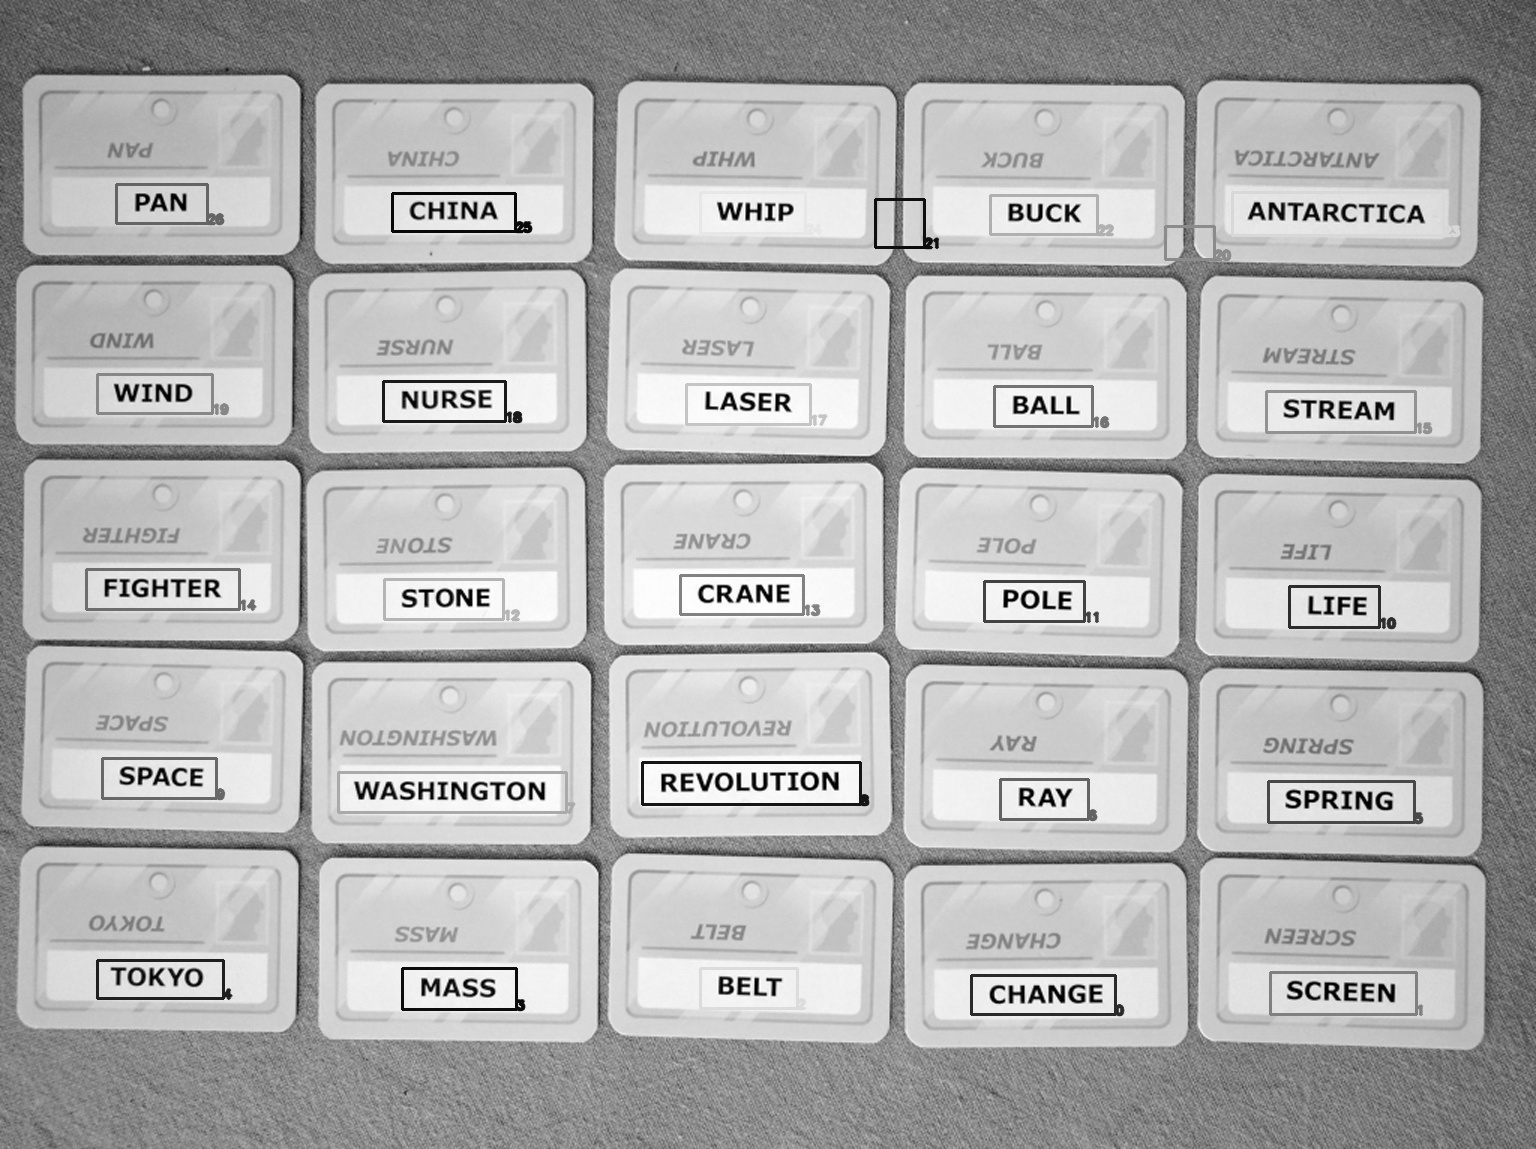
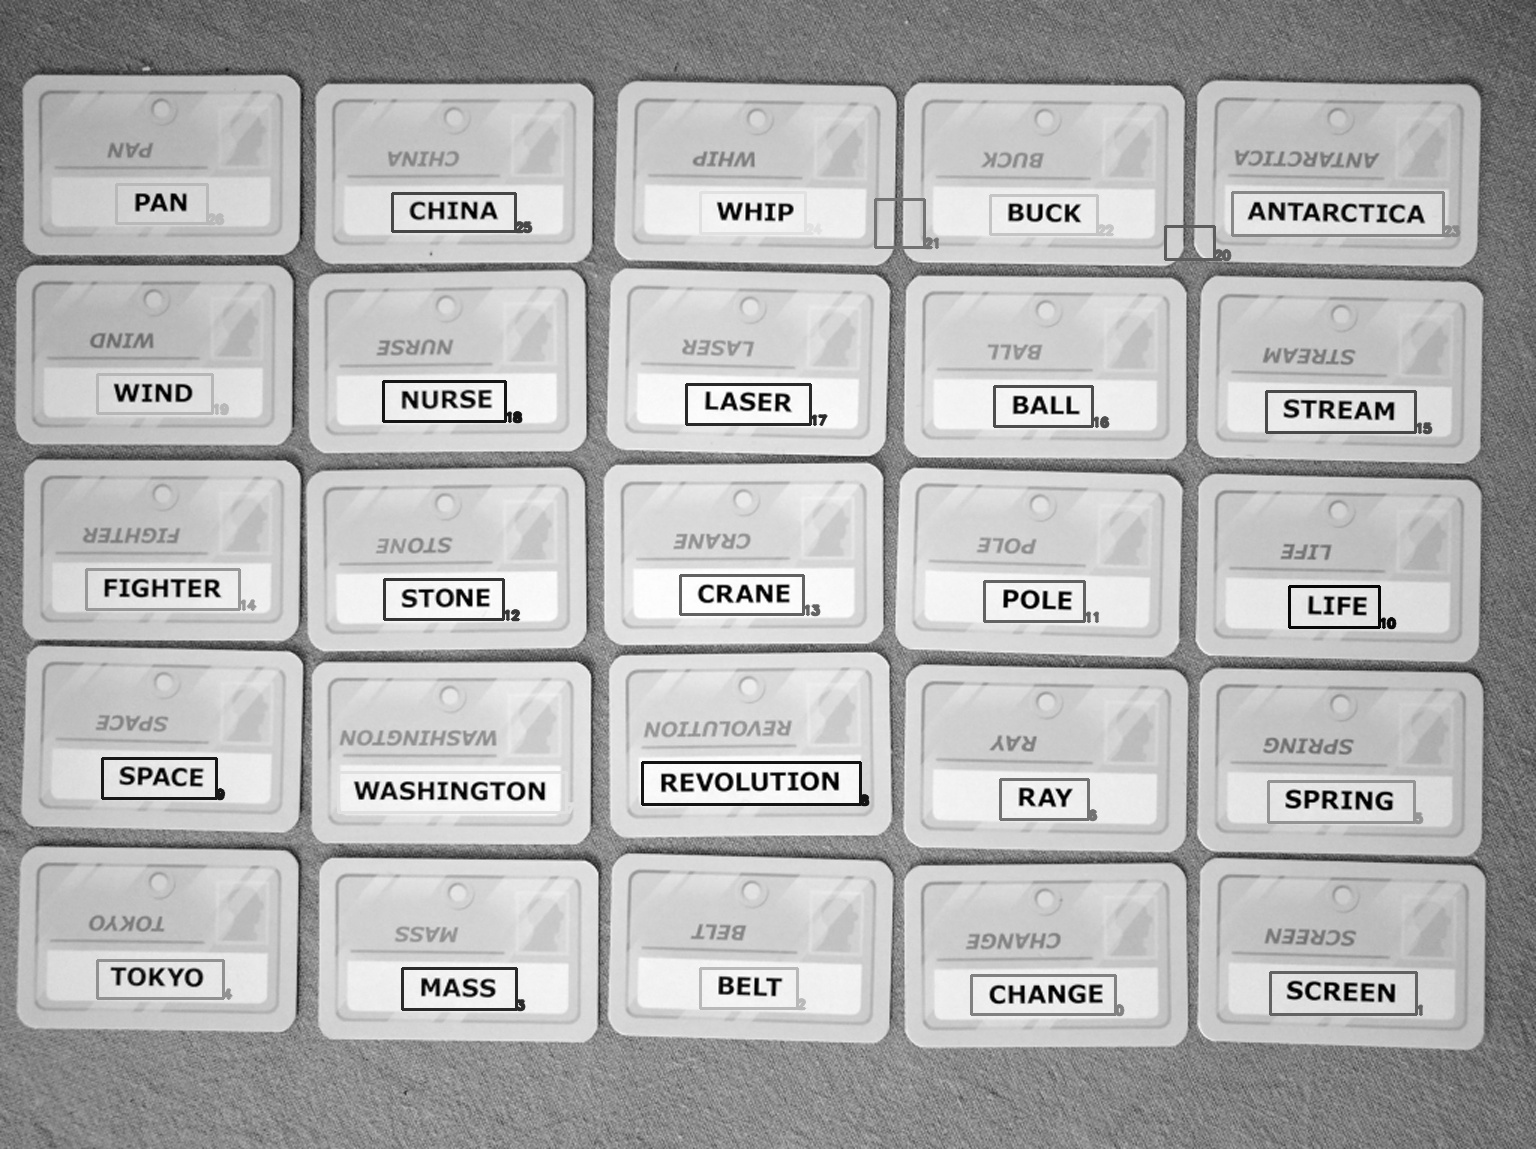
remove duplicates and invalid words

diff --git a/text_recognition.py b/text_recognition.py
@@ -12,7 +12,7 @@ import io
 
 import concurrent.futures
 
-from words import two_word_mapping
+from words import two_word_mapping, ALL_WORDS
 from imageio import imread
 
 
@@ -33,8 +33,9 @@ def codenamify_words(word_list, contours):
             mapped_words.append(two_word_mapping.get(word, word))
 
     for i in range(len(mapped_words)):
-        final_contours.append(contours[i])
-        final_words.append(mapped_words[i])
+        if mapped_words[i] in ALL_WORDS and mapped_words[i] not in final_words:
+            final_contours.append(contours[i])
+            final_words.append(mapped_words[i])
 
     xcoords = []
     ycoords = []
@@ -173,4 +174,3 @@ class gameBoard:
 if __name__ == '__main__':
     game = gameBoard()
     words = game.getGameText(sys.argv[1], False)
-    print(words, len(words))
